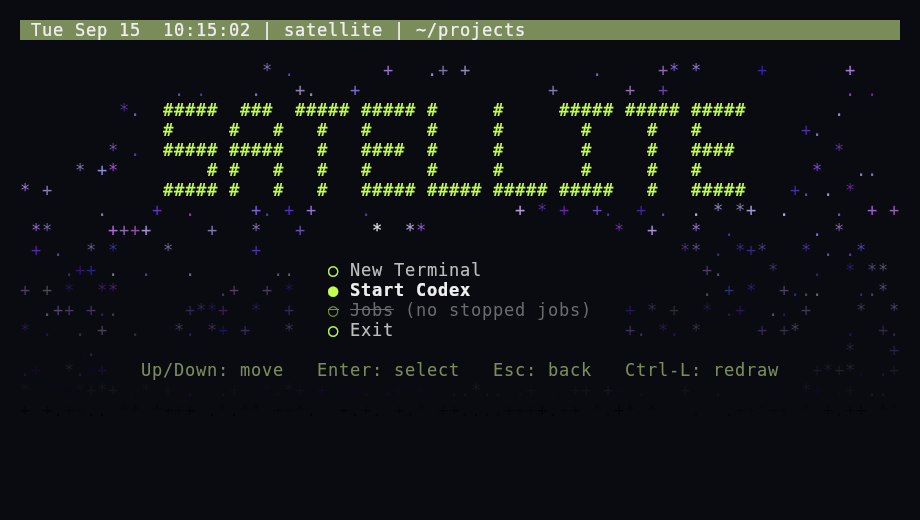
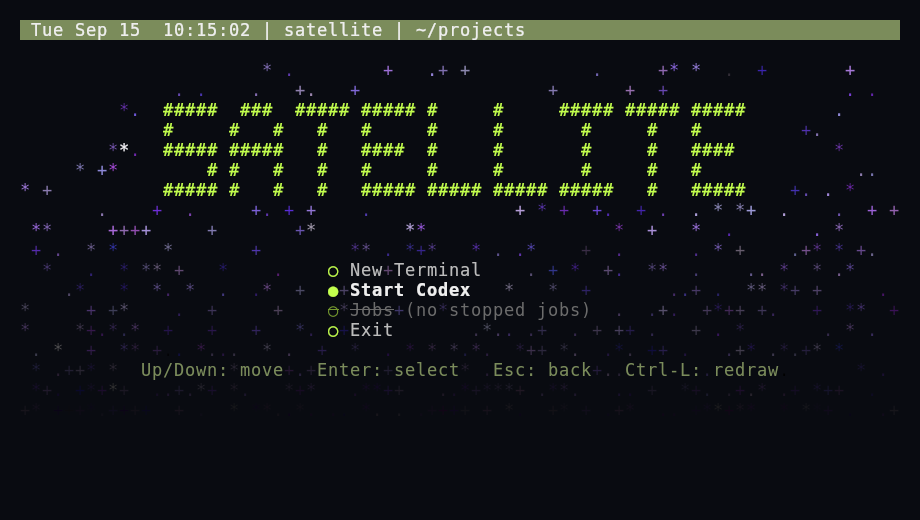
Extend the horizon behind menu text and preserve baseline twinkles

diff --git a/AGENTS.md b/AGENTS.md
@@ -24,7 +24,7 @@
 - Keep full-width status/stars, centered title/hints, responsive hint grouping,
   disabled styling, and all-or-nothing disabled explanations.
 - Preserve star animation state across navigation, focus, and Ctrl-L. Recompute
-  geometry on resize; preserve the text mask and downward fade even at peak white.
+  geometry on resize; preserve foreground glyphs and downward fade even at peak white.
 - Twinkles permanently replace their base stars and fade out more slowly than
   they brighten. Animation updates must not launch processes
   per star/frame, alter job control, or leave a background worker after exit.
@@ -32,8 +32,9 @@
 - Keep star hue offsets stable and bounded around one center, concentrated with
   a Gaussian-like distribution rather than independently cycling palette hues.
 - Extend the star field past hints when rows permit, and stretch the option-row
-  brightness falloff to the field's last row. Mask title, option, page, and hint
-  text; the footer may fade into full-width darkness.
+  brightness falloff to the field's last row. Stars extend through option/hint
+  spaces; foreground glyphs occlude them. Preserve stars beneath text across
+  scrolling, and never spawn a twinkle on a glyph. The footer fades into darkness.
 - Weight individual twinkle opportunities smoothly through the sweep. A sweep
   reduces their frequency but must never switch births off abruptly. Existing
   twinkles continue their fade and share the crossing white/hue treatment.
@@ -43,7 +44,11 @@
   durations. Precompute arrival times instead of solving easing for every cell/frame.
 - Keep broad slow edge bands and the existing peak travel speed when adjusting
   default easing. Horizon density rises from the original top density while the
-  downward brightness fade and protected text gutters remain intact.
+  downward brightness fade and foreground glyphs remain intact. Keep uniform
+  twinkle opportunities and give them priority over extra horizon births, so
+  denser lower rows never consume the top's baseline opportunities.
+- Sample the downward fade with an exclusive bottom endpoint: the last visible
+  row uses the color step before the darkest endpoint, never that endpoint itself.
 - Status backgrounds ease to the settled hint color during each sweep.
 - Bold stars and title cells briefly at their own near-white sweep peaks, then
   restore normal weight. Keep selected-option bolding and disabled styling intact.

diff --git a/README.md b/README.md
@@ -86,7 +86,7 @@ dimensions, so changing its length does not require editing the renderer.
 Animations run in the selector at a target of 20 frames per second, updating
 only changed star and accent cells between foreground redraws. No background worker or
 extra runtime dependency is needed. The title, option block, markers, hints, and
-status bar remain protected from stars; viewport changes rebuild the field.
+status bar remain readable over stars; viewport changes rebuild the field.
 
 Twinkles start one at a time, with random opportunities spaced 1–200 ms apart
 at the default 2.5× rate. The rate setting scales opportunity frequency
@@ -109,11 +109,20 @@ applied even to white peaks, so the bottom stays dimmer.
 Stars and title characters briefly turn bold around their own near-white sweep
 peak, then return to normal weight as they fade. The selected option stays bold.
 The star field now reaches the control hints and up to two rows below them when
-the terminal has room. The row fade stretches from 65% at the first option to
-5% at the field's last row. Star density eases upward quadratically from the
+the terminal has room. The row fade starts at 65% at the first option and approaches
+5% one row beyond the field. That darkest endpoint is excluded, leaving the last
+visible row at the preceding color step. Star density eases upward quadratically from the
 original 1-in-8 chance at the top to 6-in-8 at the bottom, creating a dense, dim
-horizon. New twinkles favor the same lower rows. Text areas keep clear gutters,
-including around the hints and options.
+horizon. Twinkle frequency follows that same density gradient: the original
+uniform opportunities remain, with extra opportunities weighted by each row's
+density above baseline. Uniform births take priority, so the horizon cannot
+crowd out the top when reaching the one-birth-per-frame limit. Both streams use
+the same 2.5× rate setting and smooth sweep envelope.
+
+Stars extend behind the option block and control hints, including their spaces.
+Foreground letters and circle markers always win over stars. The background
+retains its state under text, so scrolling reveals existing stars rather than
+rerandomizing them. The title keeps its surrounding clear space.
 
 Stars share one central hue, with stable offsets in a 60° total range (±30°).
 The offsets approximate a Gaussian distribution with a 10° standard deviation,
